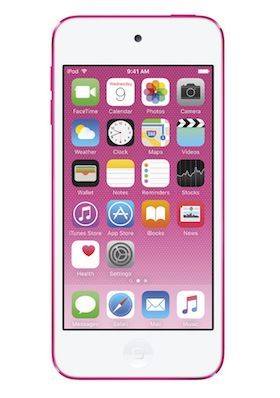
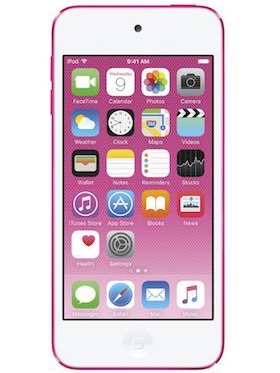
refactor(home): change image of iPhone

diff --git a/_site/index.html b/_site/index.html
@@ -91,7 +91,7 @@
                             <a class="color-type-secondary" href="/flyve-mdm-ios-inventory/news">News</a>
                         </li>
 
-                        <li>
+                        <li class="hidden">
                             <a class="color-type-secondary" href="/flyve-mdm-ios-inventory/screenshots">Screenshots</a>
                         </li>
                         
@@ -480,15 +480,15 @@
 
           <figure class="media row">
             <div class="media-img ratio-movie">
-                <img src="/flyve-mdm-ios-inventory/images/IPhone5.png" alt="" />
+                <img src="/flyve-mdm-ios-inventory/images/IPhone6.png" alt="" />
             </div>
-            <a class="btn btn-default center-block" href="/flyve-mdm-ios-inventory/assets/blackBerry.xml" role="button" Download>Download</a>
+            <a class="btn btn-default center-block" href="/flyve-mdm-ios-inventory/assets/iPhone6.xml" role="button" Download>Download</a>
             <figcaption class="media-caption">
               <h4 class="media-header">
-                iPhone 5
+                iPhone 6
               </h4>
               <div class="media-subheader">
-                The iPhone 5 is a smartphone designed and marketed by Apple Inc. It is the sixth generation of the iPhone, succeeding the iPhone 4S and preceding the iPhone 5S and iPhone 5C.
+                The devices are part of the iPhone series and were announced on September 9, 2014, and released on September 19, 2014.
               </div>
             </figcaption>
           </figure>

diff --git a/index.html b/index.html
@@ -261,7 +261,7 @@ layout: home
 
           <figure class="media row">
             <div class="media-img ratio-movie">
-                <img src="{{ "images/IPhone5.png" | relative_url }}" alt="" />
+                <img src="{{ "images/IPhone6.png" | relative_url }}" alt="" />
             </div>
             <a class="btn btn-default center-block" href="{{ "assets/iPhone6.xml" | relative_url }}" role="button" Download>Download</a>
             <figcaption class="media-caption">

diff --git a/_site/404.html b/_site/404.html
@@ -91,7 +91,7 @@
                             <a class="color-type-secondary" href="/flyve-mdm-ios-inventory/news">News</a>
                         </li>
 
-                        <li>
+                        <li class="hidden">
                             <a class="color-type-secondary" href="/flyve-mdm-ios-inventory/screenshots">Screenshots</a>
                         </li>
                         

diff --git a/_site/contact.html b/_site/contact.html
@@ -91,7 +91,7 @@
                             <a class="color-type-secondary" href="/flyve-mdm-ios-inventory/news">News</a>
                         </li>
 
-                        <li>
+                        <li class="hidden">
                             <a class="color-type-secondary" href="/flyve-mdm-ios-inventory/screenshots">Screenshots</a>
                         </li>
                         

diff --git a/_site/news.html b/_site/news.html
@@ -91,7 +91,7 @@
                             <a class="color-type-secondary" href="/flyve-mdm-ios-inventory/news">News</a>
                         </li>
 
-                        <li>
+                        <li class="hidden">
                             <a class="color-type-secondary" href="/flyve-mdm-ios-inventory/screenshots">Screenshots</a>
                         </li>
                         

diff --git a/_site/products.html b/_site/products.html
@@ -91,7 +91,7 @@
                             <a class="color-type-secondary" href="/flyve-mdm-ios-inventory/news">News</a>
                         </li>
 
-                        <li>
+                        <li class="hidden">
                             <a class="color-type-secondary" href="/flyve-mdm-ios-inventory/screenshots">Screenshots</a>
                         </li>
                         

diff --git a/sw.js b/sw.js
@@ -5,7 +5,7 @@ self.addEventListener('install', function(e) {
   
   {% assign name = site.github.project_title | replace: "flyve-mdm-", "" %} 
     
-  var CACHE_NAME = '{{name}}-version-6'
+  var CACHE_NAME = '{{name}}-version-7'
 
   caches.keys().then(function(cacheNames) {
     return Promise.all(

diff --git a/_site/sw.js b/_site/sw.js
@@ -2,7 +2,7 @@ self.addEventListener('install', function(e) {
   
    
     
-  var CACHE_NAME = 'ios-inventory-version-5'
+  var CACHE_NAME = 'ios-inventory-version-7'
 
   caches.keys().then(function(cacheNames) {
     return Promise.all(
